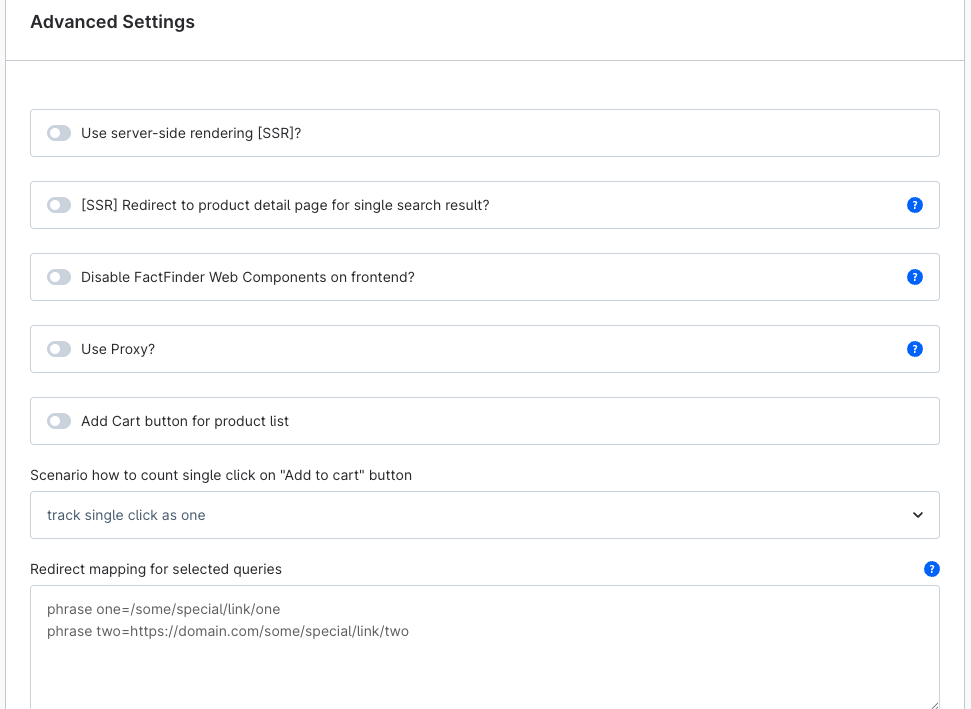
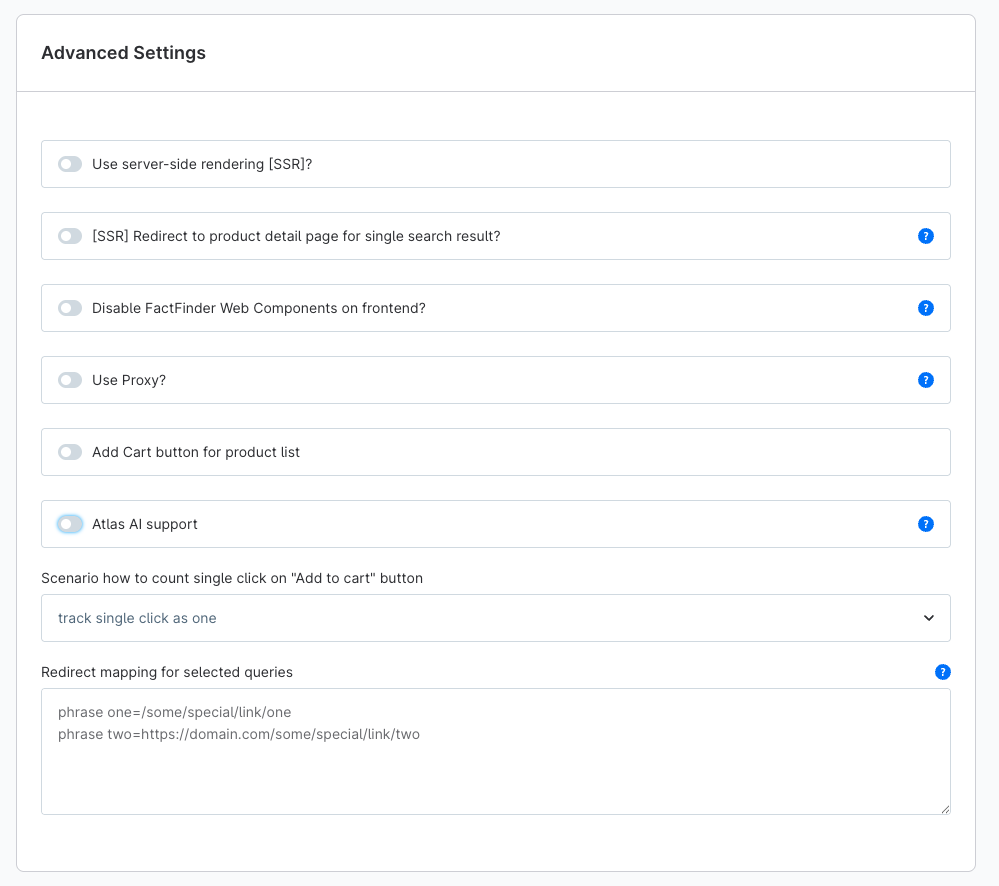
INT-340: Add Atlas AI support
Add Atlas AI support

diff --git a/spec/Subscriber/ConfigurationSubscriberSpec.php b/spec/Subscriber/ConfigurationSubscriberSpec.php
@@ -69,6 +69,7 @@ class ConfigurationSubscriberSpec extends ObjectBehavior
         $communication->isSsrActive()->willReturn(false);
         $communication->isProxyEnabled()->willReturn(false);
         $communication->isCartBtnEnabled()->willReturn(false);
+        $communication->supportAtlasAi()->willReturn(false);
         $communication->getFactFinderFeatures()->willReturn([]);
         $communication->getChannel('main_sales_channel')->willReturn('some_ff_channel');
         $communication->getFieldRoles(Argument::any())->willReturn([]);
@@ -117,6 +118,7 @@ class ConfigurationSubscriberSpec extends ObjectBehavior
         $communication->isSsrActive()->willReturn(false);
         $communication->isProxyEnabled()->willReturn(false);
         $communication->isCartBtnEnabled()->willReturn(false);
+        $communication->supportAtlasAi()->willReturn(false);
         $event->getRequest()->willReturn($request);
         $request->get('_route', Argument::any())->willReturn('factfinder');
         $request->getLocale()->willReturn('en');
@@ -160,6 +162,7 @@ class ConfigurationSubscriberSpec extends ObjectBehavior
         $communication->isSsrActive()->willReturn(false);
         $communication->isProxyEnabled()->willReturn(false);
         $communication->isCartBtnEnabled()->willReturn(false);
+        $communication->supportAtlasAi()->willReturn(false);
         $event->getRequest()->willReturn($request);
         $request->get('_route', Argument::any())->willReturn('factfinder');
         $request->getLocale()->willReturn('en');

diff --git a/src/Subscriber/ConfigurationSubscriber.php b/src/Subscriber/ConfigurationSubscriber.php
@@ -46,6 +46,7 @@ readonly class ConfigurationSubscriber implements EventSubscriberInterface
             'apiKey'                => $this->config->getApiKey(),
             'currencyCode'          => $event->getSalesChannelContext()->getCurrency()->getIsoCode(),
             'currencyCountryCode'   => $event->getRequest()->getLocale(),
+            'supportAtlasAi'        => $this->config->supportAtlasAi(),
         ];
 
         if (!empty($this->configurationAddParams)) {

diff --git a/src/Config/Communication.php b/src/Config/Communication.php
@@ -71,6 +71,11 @@ class Communication extends BaseConfig
         return (bool) $this->config('addCartBtn');
     }
 
+    public function supportAtlasAi(): bool
+    {
+        return (bool) $this->config('atlasAiSupport');
+    }
+
     public function getFactFinderFeatures(): array
     {
         return [

diff --git a/README.md b/README.md
@@ -137,6 +137,7 @@ Note: Sending each request to FACT-Finder instance trough Shopware, you lose on 
 * Add cart button - select this option if you want the Add to cart button on the product list
 * Scenario how to count single click on "Add to cart" button
 * Redirect mapping for selected queries - put each pair `query=url` in separate row. If the phrase appears twice, the first one from the top of the list will be taken. Url can be relative path `/some/page` or absolute url `https://domain.com/some/page?someParameter=1`. If provided pair has an invalid format then it will be ignored.
+* Atlas AI support - If Atlas AI support is enabled, the integration handles Atlas AI-specific requirements automatically. This includes creating a dedicated Atlas AI user ID and storing it on the client side across sessions. **Important: If you enable this function, userId will be generated automatically and the previous values for userId that were sent for logged-in users will be overwritten.**
 
 #### Server Side Rendering
 That option enables Server Side Rendering (SSR) for `ff-record-list` element on category and search result pages.

diff --git a/CHANGELOG.md b/CHANGELOG.md
@@ -1,5 +1,8 @@
 # Changelog
 ## Unreleased
+### Add
+- Add support for Atlas AI
+
 ### Change
 - Upgrade Web Components version to v5.3.0
 
